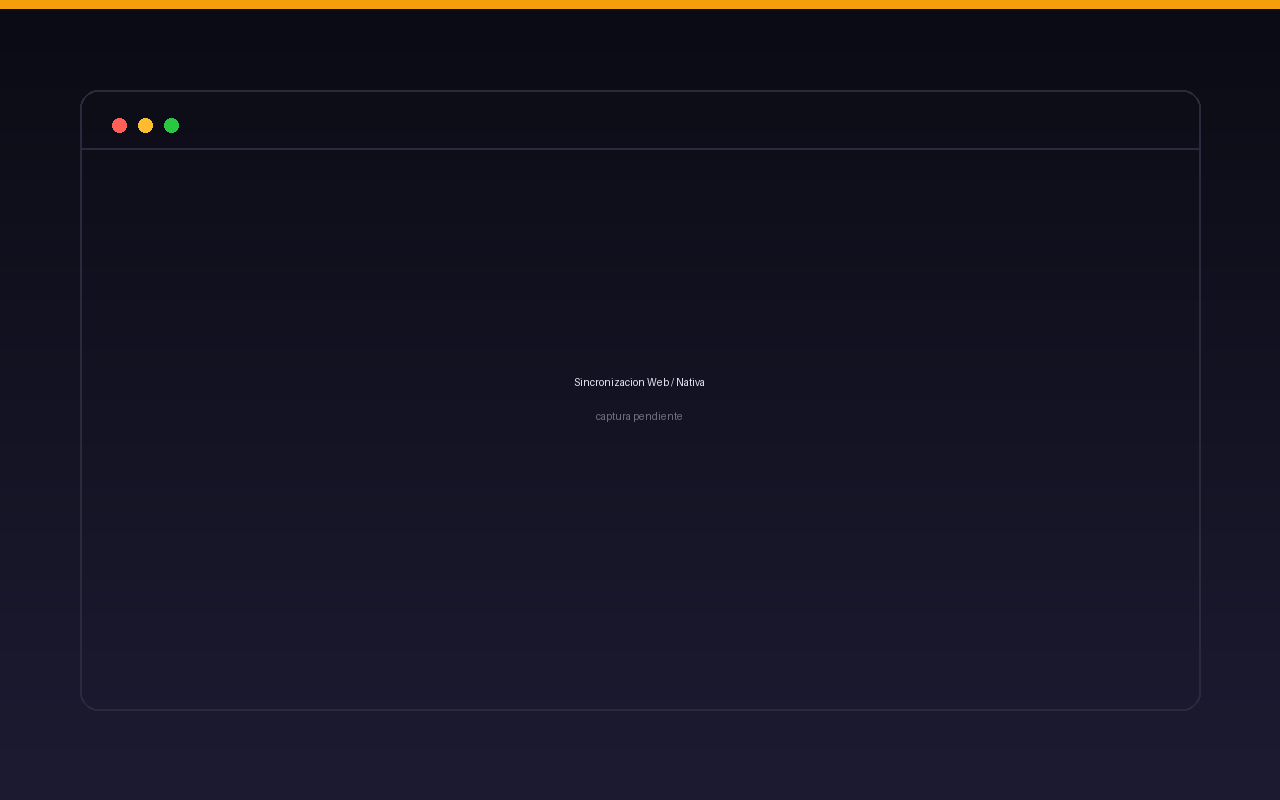
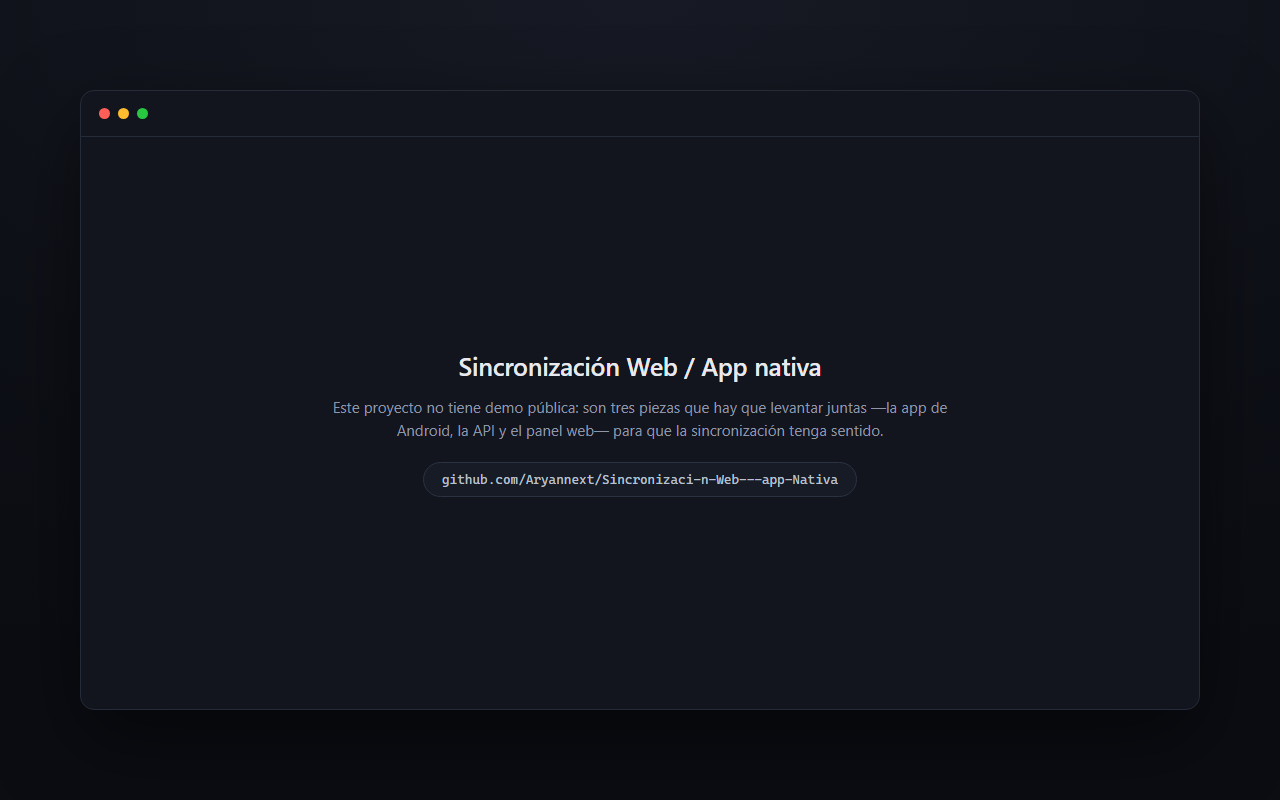
Capturas reales de los proyectos
Sistema Jurídico y Costura App salieron del sitio en vivo, con Chrome por el
protocolo DevTools. Hizo falta CDP y no `chrome --screenshot` porque este
dispara al terminar el load y la Costura App arranca SQLite en WebAssembly
después: salía una hoja en blanco con el color de fondo y nada más.

La Costura App es una aplicación móvil, y su pantalla de inicio a 1280 px de
ancho es casi toda vacío. Va capturada a 420x900 —el tamaño que le
corresponde— y montada sobre un lienzo claro de 1280x800, para que se lea como
lo que es.

El tercer proyecto no tiene demo pública: son tres piezas que hay que levantar
juntas. Su marcador decía "captura pendiente", que en un portafolio en vivo se
lee como un descuido; ahora dice por qué no hay demo y enseña el repositorio.

También se acota el Cache-Control immutable a los archivos .spline. Cubría todo
/assets, y ahí caían estas capturas: cambiarle el contenido a una sin cambiarle
el nombre habría dejado a quien ya entró viendo la vieja hasta 2027. Las
escenas 3D sí lo conservan, porque su nombre lleva versión.

De paso, más textos en inglés que quedaban a la vista: "Send Message" y el
"Pinky promise!" del formulario de contacto, y el saludo del huevo de pascua de
la consola.

diff --git a/src/components/ContactForm.tsx b/src/components/ContactForm.tsx
@@ -116,7 +116,7 @@ const ContactForm = () => {
         />
         {errors.message && <p className="text-sm text-red-500">{errors.message}</p>}
         <p className="text-sm text-muted-foreground">
-          I&apos;ll never share your data with anyone else. Pinky promise!
+          Tus datos no se los paso a nadie. Palabra.
         </p>
       </div>
       <Button
@@ -131,7 +131,7 @@ const ContactForm = () => {
           </div>
         ) : (
           <div className="flex items-center justify-center">
-            Send Message <ChevronRight className="w-4 h-4 ml-4" />
+            Enviar mensaje <ChevronRight className="w-4 h-4 ml-4" />
           </div>
         )}
         <BottomGradient />

diff --git a/src/components/easter-eggs.tsx b/src/components/easter-eggs.tsx
@@ -20,8 +20,8 @@ const EasterEggs = () => {
     if (typeof console !== "undefined") {
       console.clear();
       console.log(
-        "%cWhoa, look at you! 🕵♂\n" +
-          "You seem to have discovered the secret console! 🔍\n" +
+        "%c¡Vaya, mira nada más! 🕵♂\n" +
+          "Encontraste la consola secreta. 🔍\n" +
           "¿Quieres ver algo de magia? ✨\n" +
           "Escribe %cmi nombre%c y dale enter. 🎩🐇",
         //   "Just press the %c'n'%c key and watch the magic happen! 🪄",
